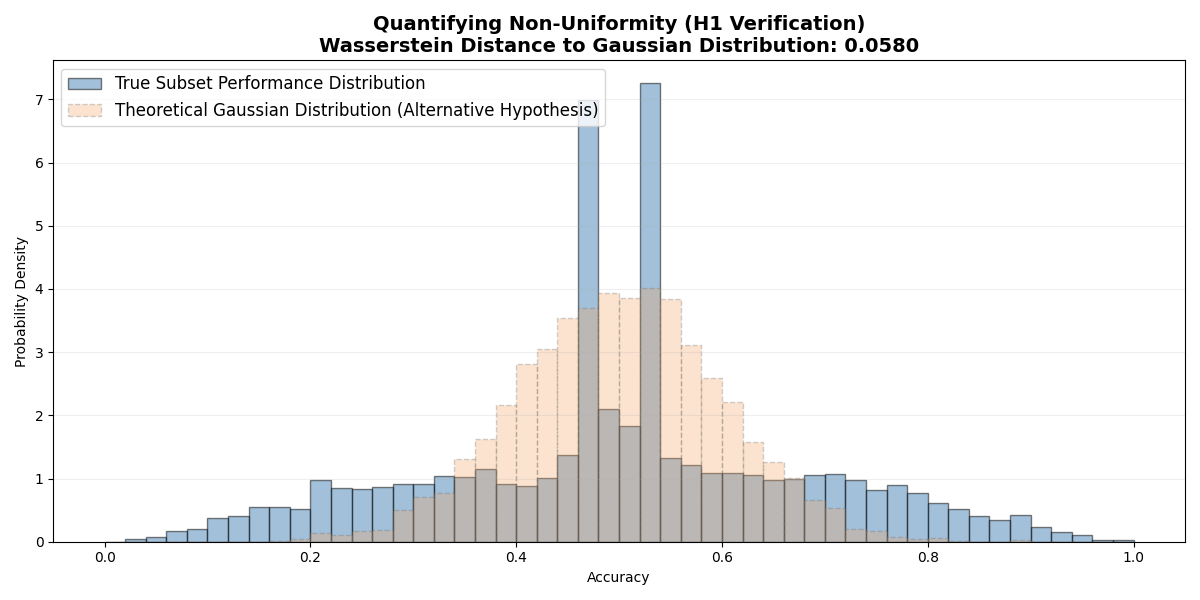
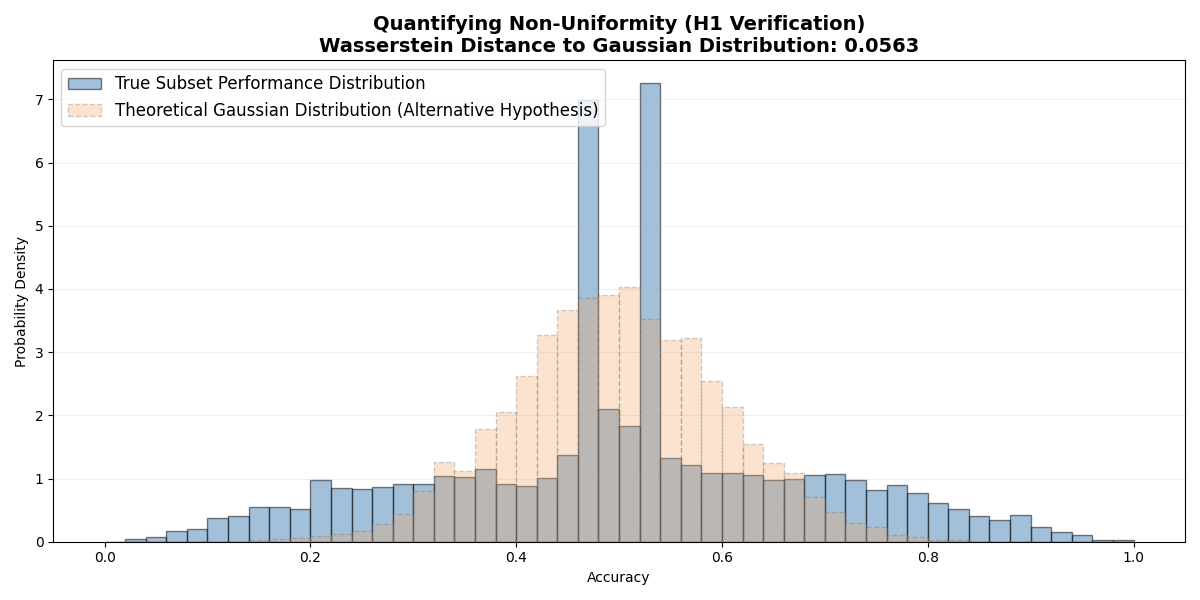
Density Esitmate KDE and results

diff --git a/ParallelVecScript.py b/ParallelVecScript.py
@@ -203,6 +203,10 @@ print("Gaussian verification saved!")
 
 
 
+
+
+
+
 '''
 # Random Forest on toy dataset test for all subsets
 from sklearn.ensemble import RandomForestClassifier